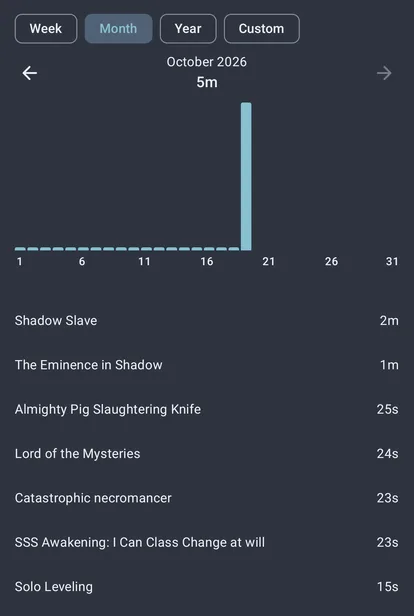
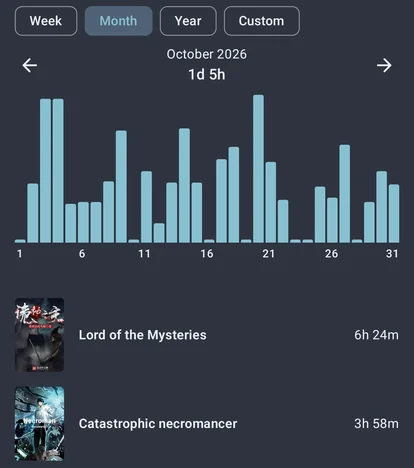
docs: update pacing, local series and Statistics pages
Three pages described behaviour that changed this cycle, and the
Statistics screenshots still showed the design from before the
redesign.

- Downloads FAQ: pacing now covers manga too, under Download speed,
  with one Delay per source list for both types
- Library layout and search: the local badge and source:local cover
  novels, and a local series' language comes from its files
- Statistics: retaken screenshots in light and dark, plus new ones of
  the overview card and the Arrange cards screen

Screenshots come from the demo library on the Pixel 10 Pro XL AVD,
following readme-showcase.md, with reading time and tracker sign-ins
filled in by a throwaway build so every card has data.

diff --git a/docs/statistics.md b/docs/statistics.md
@@ -21,41 +21,60 @@ Below it:
 * **Sources**, **Tags**, **Categories**, **Trackers**, **Languages**, **Series length** and **Started reading** list your top five in each.
 
 ::: tabs
-== Charts
+== Overview
 <img
   class="only-light"
-  src="/docs/statistics/charts.light.webp"
-  alt="Publishing status, tracking status and score charts"
+  src="/docs/statistics/overview.light.webp"
+  alt="The overview card, each figure with an icon"
   width="414"
-  height="644"
+  height="353"
   loading="lazy"
   decoding="async"
 />
 <img
   class="only-dark"
-  src="/docs/statistics/charts.dark.webp"
-  alt="Publishing status, tracking status and score charts"
+  src="/docs/statistics/overview.dark.webp"
+  alt="The overview card, each figure with an icon"
   width="414"
-  height="644"
+  height="353"
   loading="lazy"
   decoding="async"
 />
 == Reading
 <img
   class="only-light"
-  src="/docs/statistics/most-read.light.webp"
-  alt="Reading this week and the Most read card"
+  src="/docs/statistics/week.light.webp"
+  alt="The Reading this week card with streaks and reading speed"
   width="414"
-  height="638"
+  height="359"
   loading="lazy"
   decoding="async"
 />
 <img
   class="only-dark"
-  src="/docs/statistics/most-read.dark.webp"
-  alt="Reading this week and the Most read card"
+  src="/docs/statistics/week.dark.webp"
+  alt="The Reading this week card with streaks and reading speed"
   width="414"
-  height="638"
+  height="359"
+  loading="lazy"
+  decoding="async"
+/>
+== Charts
+<img
+  class="only-light"
+  src="/docs/statistics/charts.light.webp"
+  alt="Tracking status, Scores and the Most read card"
+  width="414"
+  height="712"
+  loading="lazy"
+  decoding="async"
+/>
+<img
+  class="only-dark"
+  src="/docs/statistics/charts.dark.webp"
+  alt="Tracking status, Scores and the Most read card"
+  width="414"
+  height="712"
   loading="lazy"
   decoding="async"
 />
@@ -74,6 +93,25 @@ Tap the pencil at the top of Statistics to arrange its cards. They sit in three 
 * Tap the arrow beside a group to fold it while you arrange the others.
 * **Reset** in the ⋮ menu puts every card back in its first place and shows them all.
 
+<img
+  class="only-light"
+  src="/docs/statistics/arrange.light.webp"
+  alt="Arrange cards, with the At a glance and Charts groups open"
+  width="414"
+  height="399"
+  loading="lazy"
+  decoding="async"
+/>
+<img
+  class="only-dark"
+  src="/docs/statistics/arrange.dark.webp"
+  alt="Arrange cards, with the At a glance and Charts groups open"
+  width="414"
+  height="399"
+  loading="lazy"
+  decoding="async"
+/>
+
 ## Opening a list
 
 **See all** on a card opens the whole list, one card per row on a phone and several side by side on a wider screen. Each shows how many of its series you have **Finished** (read every chapter), are **Reading** and have **Not started**, then its mean score and reading time. Where the list has no order of its own, the sort button in the top bar orders it by most series, chapters read, mean score or reading time.
@@ -85,7 +123,7 @@ Tap a row to list the series it counts, drawn as your library draws them: the sa
   src="/docs/statistics/series-list.light.webp"
   alt="A row's series list under its summary card"
   width="414"
-  height="432"
+  height="431"
   loading="lazy"
   decoding="async"
 />
@@ -94,7 +132,7 @@ Tap a row to list the series it counts, drawn as your library draws them: the sa
   src="/docs/statistics/series-list.dark.webp"
   alt="A row's series list under its summary card"
   width="414"
-  height="432"
+  height="431"
   loading="lazy"
   decoding="async"
 />
@@ -108,7 +146,7 @@ Tap a row to list the series it counts, drawn as your library draws them: the sa
   src="/docs/statistics/reading-time.light.webp"
   alt="Reading time for a month, a bar per day"
   width="414"
-  height="616"
+  height="468"
   loading="lazy"
   decoding="async"
 />
@@ -117,7 +155,7 @@ Tap a row to list the series it counts, drawn as your library draws them: the sa
   src="/docs/statistics/reading-time.dark.webp"
   alt="Reading time for a month, a bar per day"
   width="414"
-  height="616"
+  height="468"
   loading="lazy"
   decoding="async"
 />

diff --git a/docs/faq/downloads.md b/docs/faq/downloads.md
@@ -14,15 +14,16 @@ Two settings in <nav to="downloads"> control this for manga, and both start cons
 
 Raise the second one only for a source you know tolerates it. A source that starts returning errors or blank pages under load is telling you to put it back.
 
-Light novels ignore both settings: their queue downloads one chapter at a time, with a pause between chapters that you set under **Download delays · Novels**.
+Light novels ignore both settings: their queue downloads one chapter at a time, with a pause between chapters that you set under **Download speed**.
 
-## How do I slow novel downloads down?
-Novel sources do not limit their own request rate the way manga extensions do, so a fast queue can get you blocked. The **Download delays · Novels** group in <nav to="downloads"> sets the wait between novel chapter downloads. It has no effect on manga.
+## How do I slow downloads down?
+A fast queue can get you blocked by a site. The **Download speed** group in <nav to="downloads"> sets a wait between chapter downloads, separately for manga and novels.
 
-* **Delay between chapters** applies to every novel source. It defaults to 0.5 s, and goes up to 10 s.
-* **Delay per source** lists your novel sources so you can give one its own delay. A source that declares a minimum shows **Needs at least** that much, and its choices never go below it.
+* **Delay between manga chapters** applies to every manga source. It starts at **Off**, so manga download as before until you set it. With a delay set, a source fetches its chapters one after another, with the wait in between.
+* **Delay between novel chapters** applies to every novel source. It defaults to 0.5 s.
+* **Delay per source** lists your sources of both types so you can give one its own delay. Search it from the top bar, or narrow it to manga or novels with the chips. A source that declares a minimum shows **Needs at least** that much, and its delay never goes below it.
 
-The wait also adjusts by itself: after a failed chapter it doubles, up to 30 seconds, and after a successful one it drops back towards your setting.
+Each delay is set on a slider from Off to 30 s. The wait also adjusts by itself: after a failed chapter it doubles, up to 30 seconds, and after a successful one it drops back towards your setting. At Off it never waits.
 
 ## Why did my downloads stop midway?
 Downloads stopping midway may be related to network connection issues or source problems.

diff --git a/docs/library-search.md b/docs/library-search.md
@@ -56,7 +56,7 @@ A plain word never searches `language:`, `srcid:`, `chapter:`, `status:`, `track
 **`source:` matches the source's display name**, so `source:mangadex` and `src:manga` both work on a partial name.
 **`srcid:` matches its exact identity** instead: a number for manga sources, the plugin's id (such as `novelupdates`) for light-novel plugins, and a prefixed number such as `tachiyomi:42` or `ireader:42` for novel [extension apps](/docs/faq/browse/extensions#extension-apps-and-plugins).
 Reach for `srcid:` when two sources have similar names.
-On manga, `source:local` finds entries from your local source.
+`source:local` finds entries from the local sources, manga and novels alike. A local series answers `lang:` by the language its files name, which you can set in its [`details.json`](/docs/guides/local-source/advanced).
 A merged series answers for every source it reads from, so `source:`, `srcid:` and `lang:` find it through any of them, not only the one leading it.
 
 **`chapter:` searches chapter names**, so `chapter:epilogue` finds every entry with a chapter called that.

diff --git a/docs/library-layout.md b/docs/library-layout.md
@@ -36,8 +36,8 @@ These add small badges to each cover:
 |---|---|---|
 | **Downloaded chapters** | how many chapters are downloaded | Off |
 | **Unread chapters** | how many chapters are unread | On |
-| **Local source** | that the entry comes from the local source (manga only) | On |
-| **Language** | the source's language | Off |
+| **Local source** | that the entry comes from a local source | On |
+| **Language** | the source's language, or for a local series the language its files name | Off |
 | **Source icon** | the source's icon | On |
 | **Show source icons on merged covers** | every source behind a [merged series](multi-source.md) | On |
 | **Continue reading button** | a button on the cover that opens the next chapter | Off |
